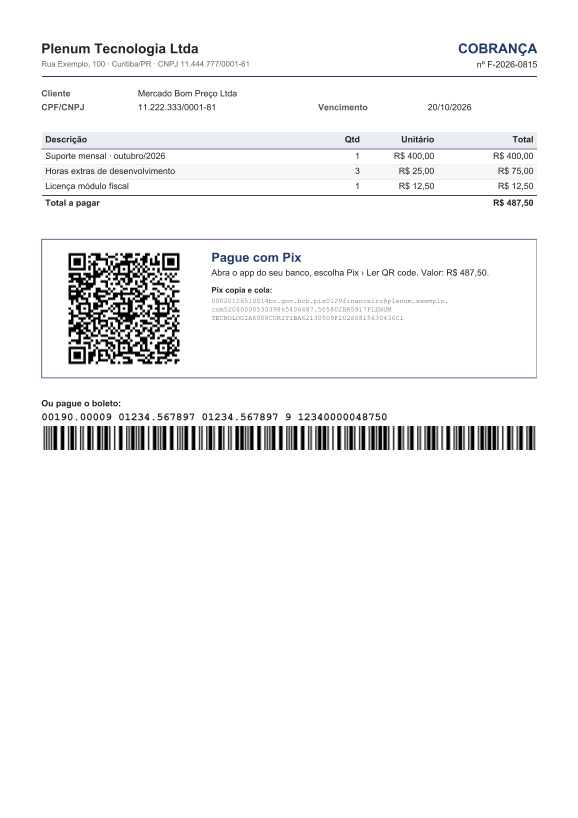
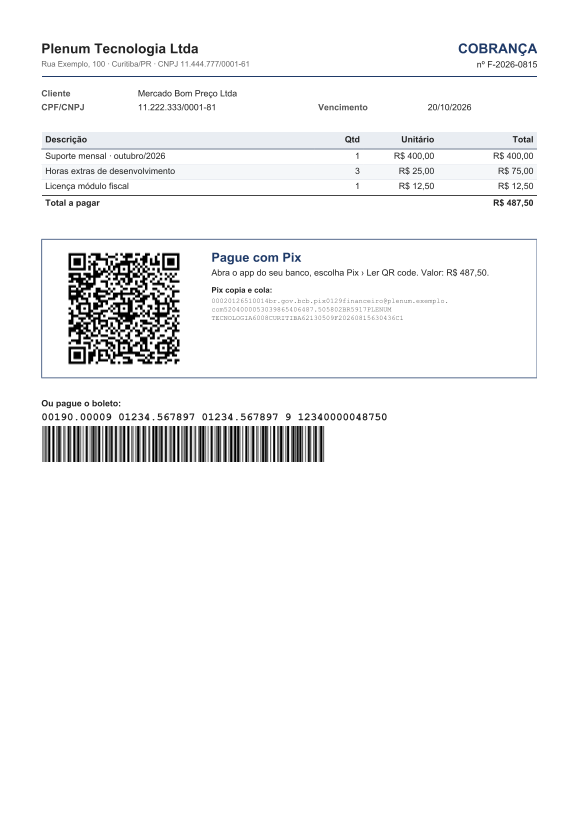
Corrige idioma do Java do desktop, largura de códigos e etiquetas, datas ISO e quebra de palavra
Achados rodando relatórios de teste no app desktop:
- jlink sem jdk.localedata: números, moeda e meses saíam em inglês
- data e hora ISO em campos não declarados do sample agora viram LocalDateTime
- código de barras mais largo que a coluna ignorava a largura (boleto de 103mm
  esticava até a margem): max-width:none na imagem
- etiquetas sem width dividem a largura da página (90mm fixos estouravam a A4)
- palavra longa sem espaço quebra em vez de sair da página
- imagens da galeria regeradas

Changed region(s): [[0.0623, 0.5196, 0.9343, 0.5807]]

diff --git a/prelo-desktop/scripts/prepare.js b/prelo-desktop/scripts/prepare.js
@@ -58,10 +58,12 @@ if (runtime) {
   if (!jdk) throw new Error('nenhum JDK com jmods encontrado (defina PRELO_JLINK_JDK)');
   const out = path.join(engineDst, 'runtime');
   fs.rmSync(out, { recursive: true, force: true });
-  const modules = ['java.base', 'java.desktop', 'java.xml', 'java.logging', 'java.sql', 'java.naming', 'jdk.httpserver', 'jdk.charsets', 'jdk.crypto.ec', 'jdk.zipfs', 'jdk.unsupported'];
+  const modules = ['java.base', 'java.desktop', 'java.xml', 'java.logging', 'java.sql', 'java.naming', 'jdk.httpserver', 'jdk.charsets', 'jdk.crypto.ec', 'jdk.zipfs', 'jdk.unsupported',
+    // sem jdk.localedata o Java só tem en: números, moeda e meses sairiam em inglês
+    'jdk.localedata'];
   console.log('jlink com ' + jdk);
   execFileSync(path.join(jdk, 'bin', 'jlink'), [
-    '--add-modules', modules.join(','), '--strip-debug', '--no-header-files', '--no-man-pages', '--compress=2', '--output', out,
+    '--add-modules', modules.join(','), '--include-locales=en,pt', '--strip-debug', '--no-header-files', '--no-man-pages', '--compress=2', '--output', out,
   ], { stdio: 'inherit' });
   console.log('runtime pronto em ' + out);
 }

diff --git a/prelo-intellij/src/main/resources/designer/designer.js b/prelo-intellij/src/main/resources/designer/designer.js
@@ -752,8 +752,9 @@
       }
       case 'labels': {
         const n = Math.max(1, el.columns || 2);
-        const w = esc(el.width || '90mm'), hh = esc(el.height || '45mm');
-        let h = `<div class="r-labels-src">${n} por linha${el.rowsPerPage ? ' · ' + el.rowsPerPage + ' linhas por folha' : ''} · ${w} × ${hh}`
+        const g = esc(el.gap || '3mm');
+        const w = el.width ? esc(el.width) : `calc((100% - ${Math.min(n, 4) - 1} * ${g}) / ${Math.min(n, 4)})`, hh = esc(el.height || '45mm');
+        let h = `<div class="r-labels-src">${n} por linha${el.rowsPerPage ? ' · ' + el.rowsPerPage + ' linhas por folha' : ''} · ${el.width ? w : 'largura automática'} × ${hh}`
           + `${el.source && el.source !== 'rows' ? ' · fonte: <span class="chip">' + esc(el.source) + '</span>' : ''}${el.copies ? ' · cópias: ' + chips(String(el.copies)) : ''}</div>`;
         h += `<div class="r-labels" style="${css}">`;
         h += `<div class="r-label${el.border ? ' cut' : ''}" style="width:${w};min-height:${hh};padding:${esc(el.padding || '3mm')}">${zone(path.concat('content'), el.content || [], 'Arraste o conteúdo da etiqueta')}</div>`;

diff --git a/prelo-core/src/test/java/io/github/mateusvpassos/prelo/RecursosTest.java b/prelo-core/src/test/java/io/github/mateusvpassos/prelo/RecursosTest.java
@@ -65,6 +65,47 @@ class RecursosTest {
     }
 
     @Test
+    void sampleConverteDataEHoraIsoSemFields() {
+        var t = Templates.parse("""
+                {"body":[{"type":"table","columns":[{"header":"Quando","value":"${dt}","format":"datetime"}]}]}
+                """);
+        var s = SampleData.parse("""
+                {"data":[{"d":"2026-01-05","dt":"2026-01-05T14:30:00","txt":"2026-01-05 x"}]}
+                """, t);
+        @SuppressWarnings("unchecked")
+        Map<String, Object> row = ((List<Map<String, Object>>) s.data()).get(0);
+        assertEquals(java.time.LocalDate.of(2026, 1, 5), row.get("d"));
+        assertEquals(java.time.LocalDateTime.of(2026, 1, 5, 14, 30), row.get("dt"));
+        assertEquals("2026-01-05 x", row.get("txt"));
+        String csv = new String(prelo.report(t).data(s.data()).csv(), java.nio.charset.StandardCharsets.UTF_8);
+        assertTrue(csv.contains("05/01/2026 14:30"), csv);
+    }
+
+    @Test
+    void boletoRespeitaLarguraMesmoComPngMaisLargoQueAColuna() {
+        // PNG do ITF de 44 dígitos é mais largo que a página; sem max-width:none o PDF esticava até a margem
+        var t = Templates.parse("""
+                {"body":[{"type":"barcode","format":"itf","value":"${boleto('23793381286000782713695000063305975520000370000')}","width":"103mm","height":"13mm"}]}
+                """);
+        String html = prelo.report(t).data(Map.of()).html();
+        assertTrue(html.contains("width:103mm;height:13mm;max-width:none;"), html);
+    }
+
+    @Test
+    void etiquetasSemLarguraDividemAPagina() {
+        var t = Templates.parse("""
+                {"body":[{"type":"labels","columns":2,"gap":"5mm","content":[{"type":"text","value":"${n}"}]}]}
+                """);
+        String html = prelo.report(t).data(linhas(3)).html();
+        assertTrue(html.contains("width:100%;table-layout:fixed"), html);
+        assertTrue(html.contains("width:50.0000%"), html);
+        String fixa = prelo.report(Templates.parse("""
+                {"body":[{"type":"labels","width":"70mm","content":[{"type":"text","value":"${n}"}]}]}
+                """)).data(linhas(1)).html();
+        assertTrue(fixa.contains("width:70mm") && !fixa.contains("table-layout:fixed"), fixa);
+    }
+
+    @Test
     void codigoDeBarrasEQr() throws Exception {
         var t = Templates.parse("""
                 {"body":[

diff --git a/prelo-core/src/main/java/io/github/mateusvpassos/prelo/render/HtmlRenderer.java b/prelo-core/src/main/java/io/github/mateusvpassos/prelo/render/HtmlRenderer.java
@@ -240,13 +240,16 @@ final class HtmlRenderer {
         for (int start = 0; start < Math.max(total, 1); start += perPage) {
             int end = Math.min(total, start + perPage);
             boolean breakAfter = end < total && l.rowsPerPage() > 0;
-            sb.append("<table class=\"rl-labels\"").append(style(Css.join("border-spacing:" + l.gap(), l.css(),
+            // sem width: as colunas dividem a largura útil (90mm fixos estouravam a A4 com o espaçamento)
+            boolean fill = l.width() == null;
+            String w = fill ? String.format(java.util.Locale.ROOT, "%.4f%%", 100.0 / l.columns()) : l.width();
+            sb.append("<table class=\"rl-labels\"").append(style(Css.join("border-spacing:" + l.gap(), fill ? "width:100%;table-layout:fixed" : "", l.css(),
                     breakAfter ? "page-break-after:always" : ""))).append(">\n");
             for (int i = start; i < end; i += l.columns()) {
                 sb.append("<tr>");
                 for (int c = 0; c < l.columns(); c++) {
                     int k = i + c;
-                    String cell = Css.join("width:" + l.width(), "height:" + l.height(), "max-width:" + l.width(), "padding:0",
+                    String cell = Css.join("width:" + w, "height:" + l.height(), fill ? "" : "max-width:" + w, "padding:0",
                             l.border() ? "border:0.5pt dashed #9aa0a6" : "");
                     sb.append("<td class=\"rl-label\"").append(style(cell)).append('>');
                     if (k < end) {
@@ -354,7 +357,7 @@ final class HtmlRenderer {
     }
 
     private static final String BASE_CSS = """
-            body { font-family: sans-serif; font-size: 9pt; color: #222; margin: 0; line-height: 1.25; }
+            body { font-family: sans-serif; font-size: 9pt; color: #222; margin: 0; line-height: 1.25; word-wrap: break-word; }
             .rl-page-header { position: running(rlHeader); }
             table.rl-labels { border-collapse: separate; table-layout: fixed; margin: 0; }
             table.rl-labels tr { page-break-inside: avoid; }

diff --git a/prelo-core/src/main/java/io/github/mateusvpassos/prelo/render/Evaluator.java b/prelo-core/src/main/java/io/github/mateusvpassos/prelo/render/Evaluator.java
@@ -192,7 +192,8 @@ public final class Evaluator {
         String w = b.width() != null ? b.width() : twoD ? "25mm" : "60mm";
         String h = b.height() != null ? b.height() : twoD ? w : "15mm";
         byte[] png = Barcodes.png(value, fmt);
-        String imgCss = Css.join("width:" + w, "height:" + h, css);
+        // max-width:none: com o max-width:100% padrão, o openhtmltopdf ignora a largura quando o PNG é mais largo que a coluna
+        String imgCss = Css.join("width:" + w, "height:" + h, "max-width:none", css);
         Node.Image img = new Node.Image(dataUri(png), imgCss, align(b.align()));
         if (twoD || !Boolean.TRUE.equals(b.showText())) return img;
         List<Node> parts = new ArrayList<>();
@@ -314,7 +315,7 @@ public final class Evaluator {
             for (int c = 0; c < copies; c++) out.add(content);
         }
         return new Node.Labels(out, l.columns() == null ? 2 : Math.max(1, l.columns()), l.rowsPerPage() == null ? 0 : Math.max(0, l.rowsPerPage()),
-                l.width() == null ? "90mm" : l.width(), l.height() == null ? "45mm" : l.height(), l.gap() == null ? "3mm" : l.gap(),
+                l.width(), l.height() == null ? "45mm" : l.height(), l.gap() == null ? "3mm" : l.gap(),
                 Boolean.TRUE.equals(l.border()), l.padding() == null ? "3mm" : l.padding(), css);
     }
 

diff --git a/prelo-core/src/main/java/io/github/mateusvpassos/prelo/SampleData.java b/prelo-core/src/main/java/io/github/mateusvpassos/prelo/SampleData.java
@@ -188,8 +188,11 @@ public final class SampleData {
                 Object v = out.get(f.name());
                 out.put(f.name(), "list".equals(f.type()) || "object".equals(f.type()) ? coerceData(v, f.fields()) : coerce(v, f.type()));
             }
-            // campos não declarados: datas ISO viram LocalDate
-            out.replaceAll((k, v) -> v instanceof String s && s.matches("\\d{4}-\\d{2}-\\d{2}") ? coerce(s, "date") : v);
+            // campos não declarados: datas ISO viram LocalDate, data e hora ISO viram LocalDateTime
+            out.replaceAll((k, v) -> !(v instanceof String s) ? v
+                    : s.matches("\\d{4}-\\d{2}-\\d{2}") ? coerce(s, "date")
+                    : s.matches("\\d{4}-\\d{2}-\\d{2}T\\d{2}:\\d{2}(:\\d{2}(\\.\\d+)?)?") ? coerce(s, "datetime")
+                    : v);
             return out;
         }
         return data;
